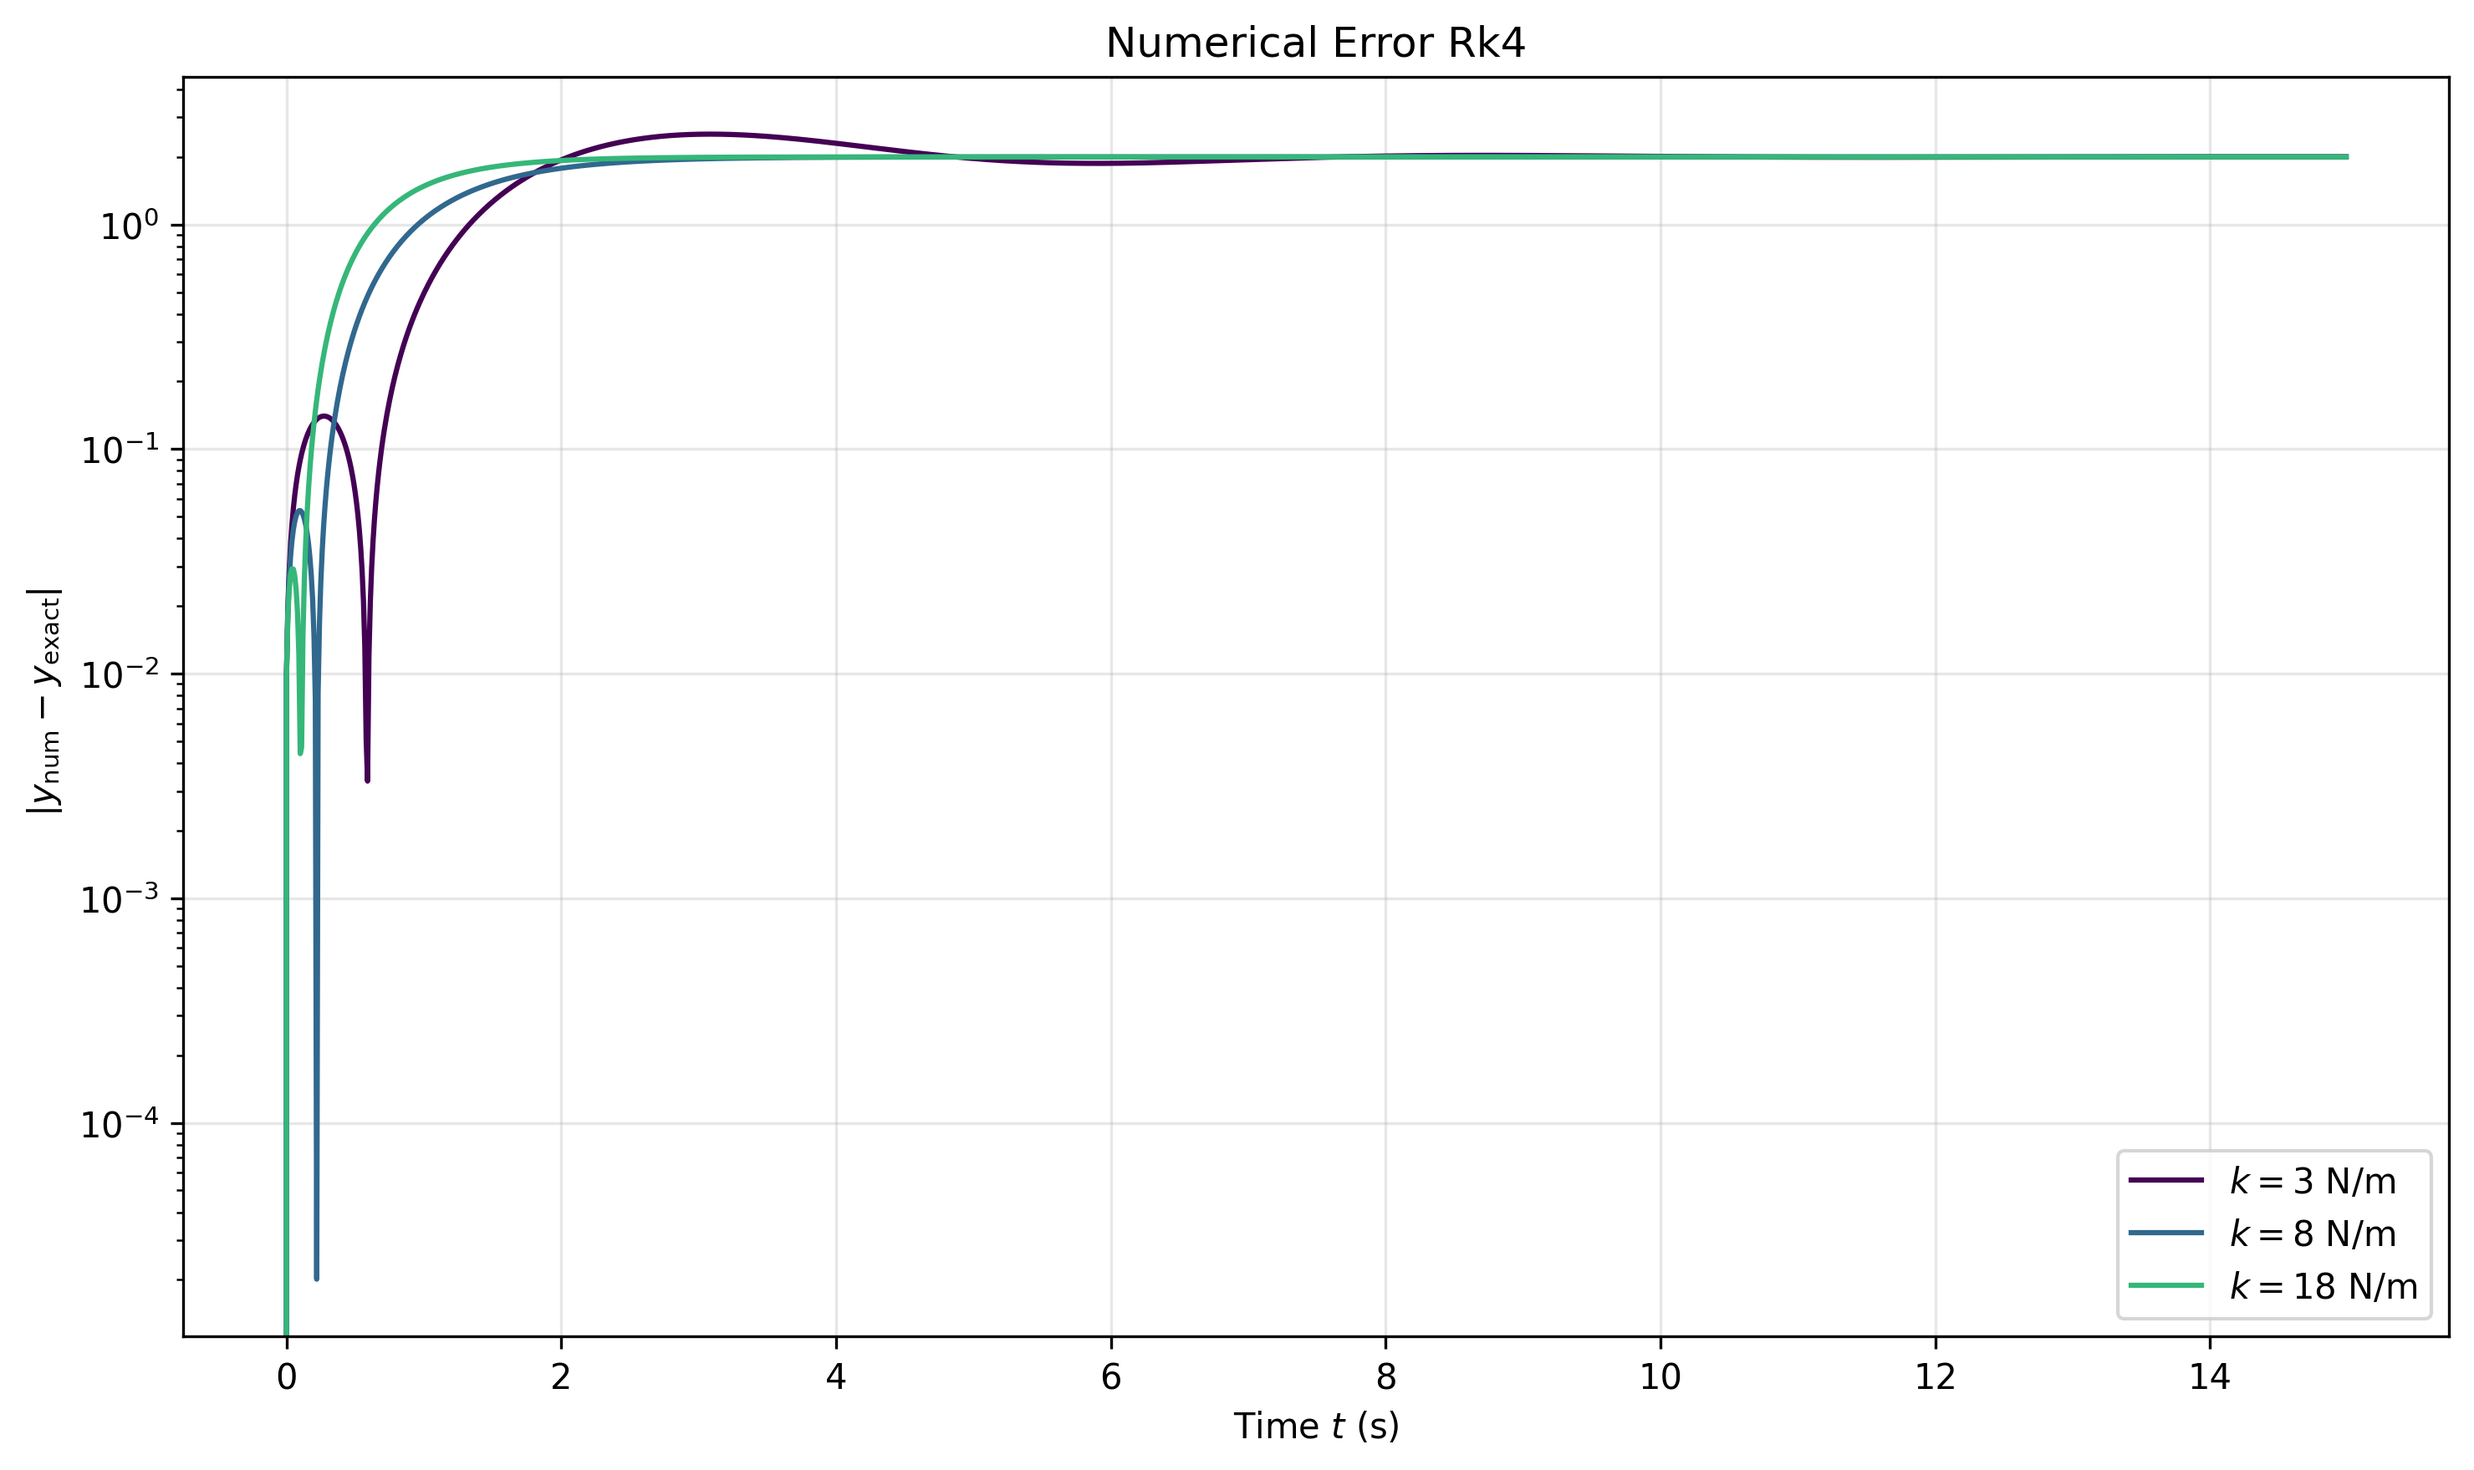
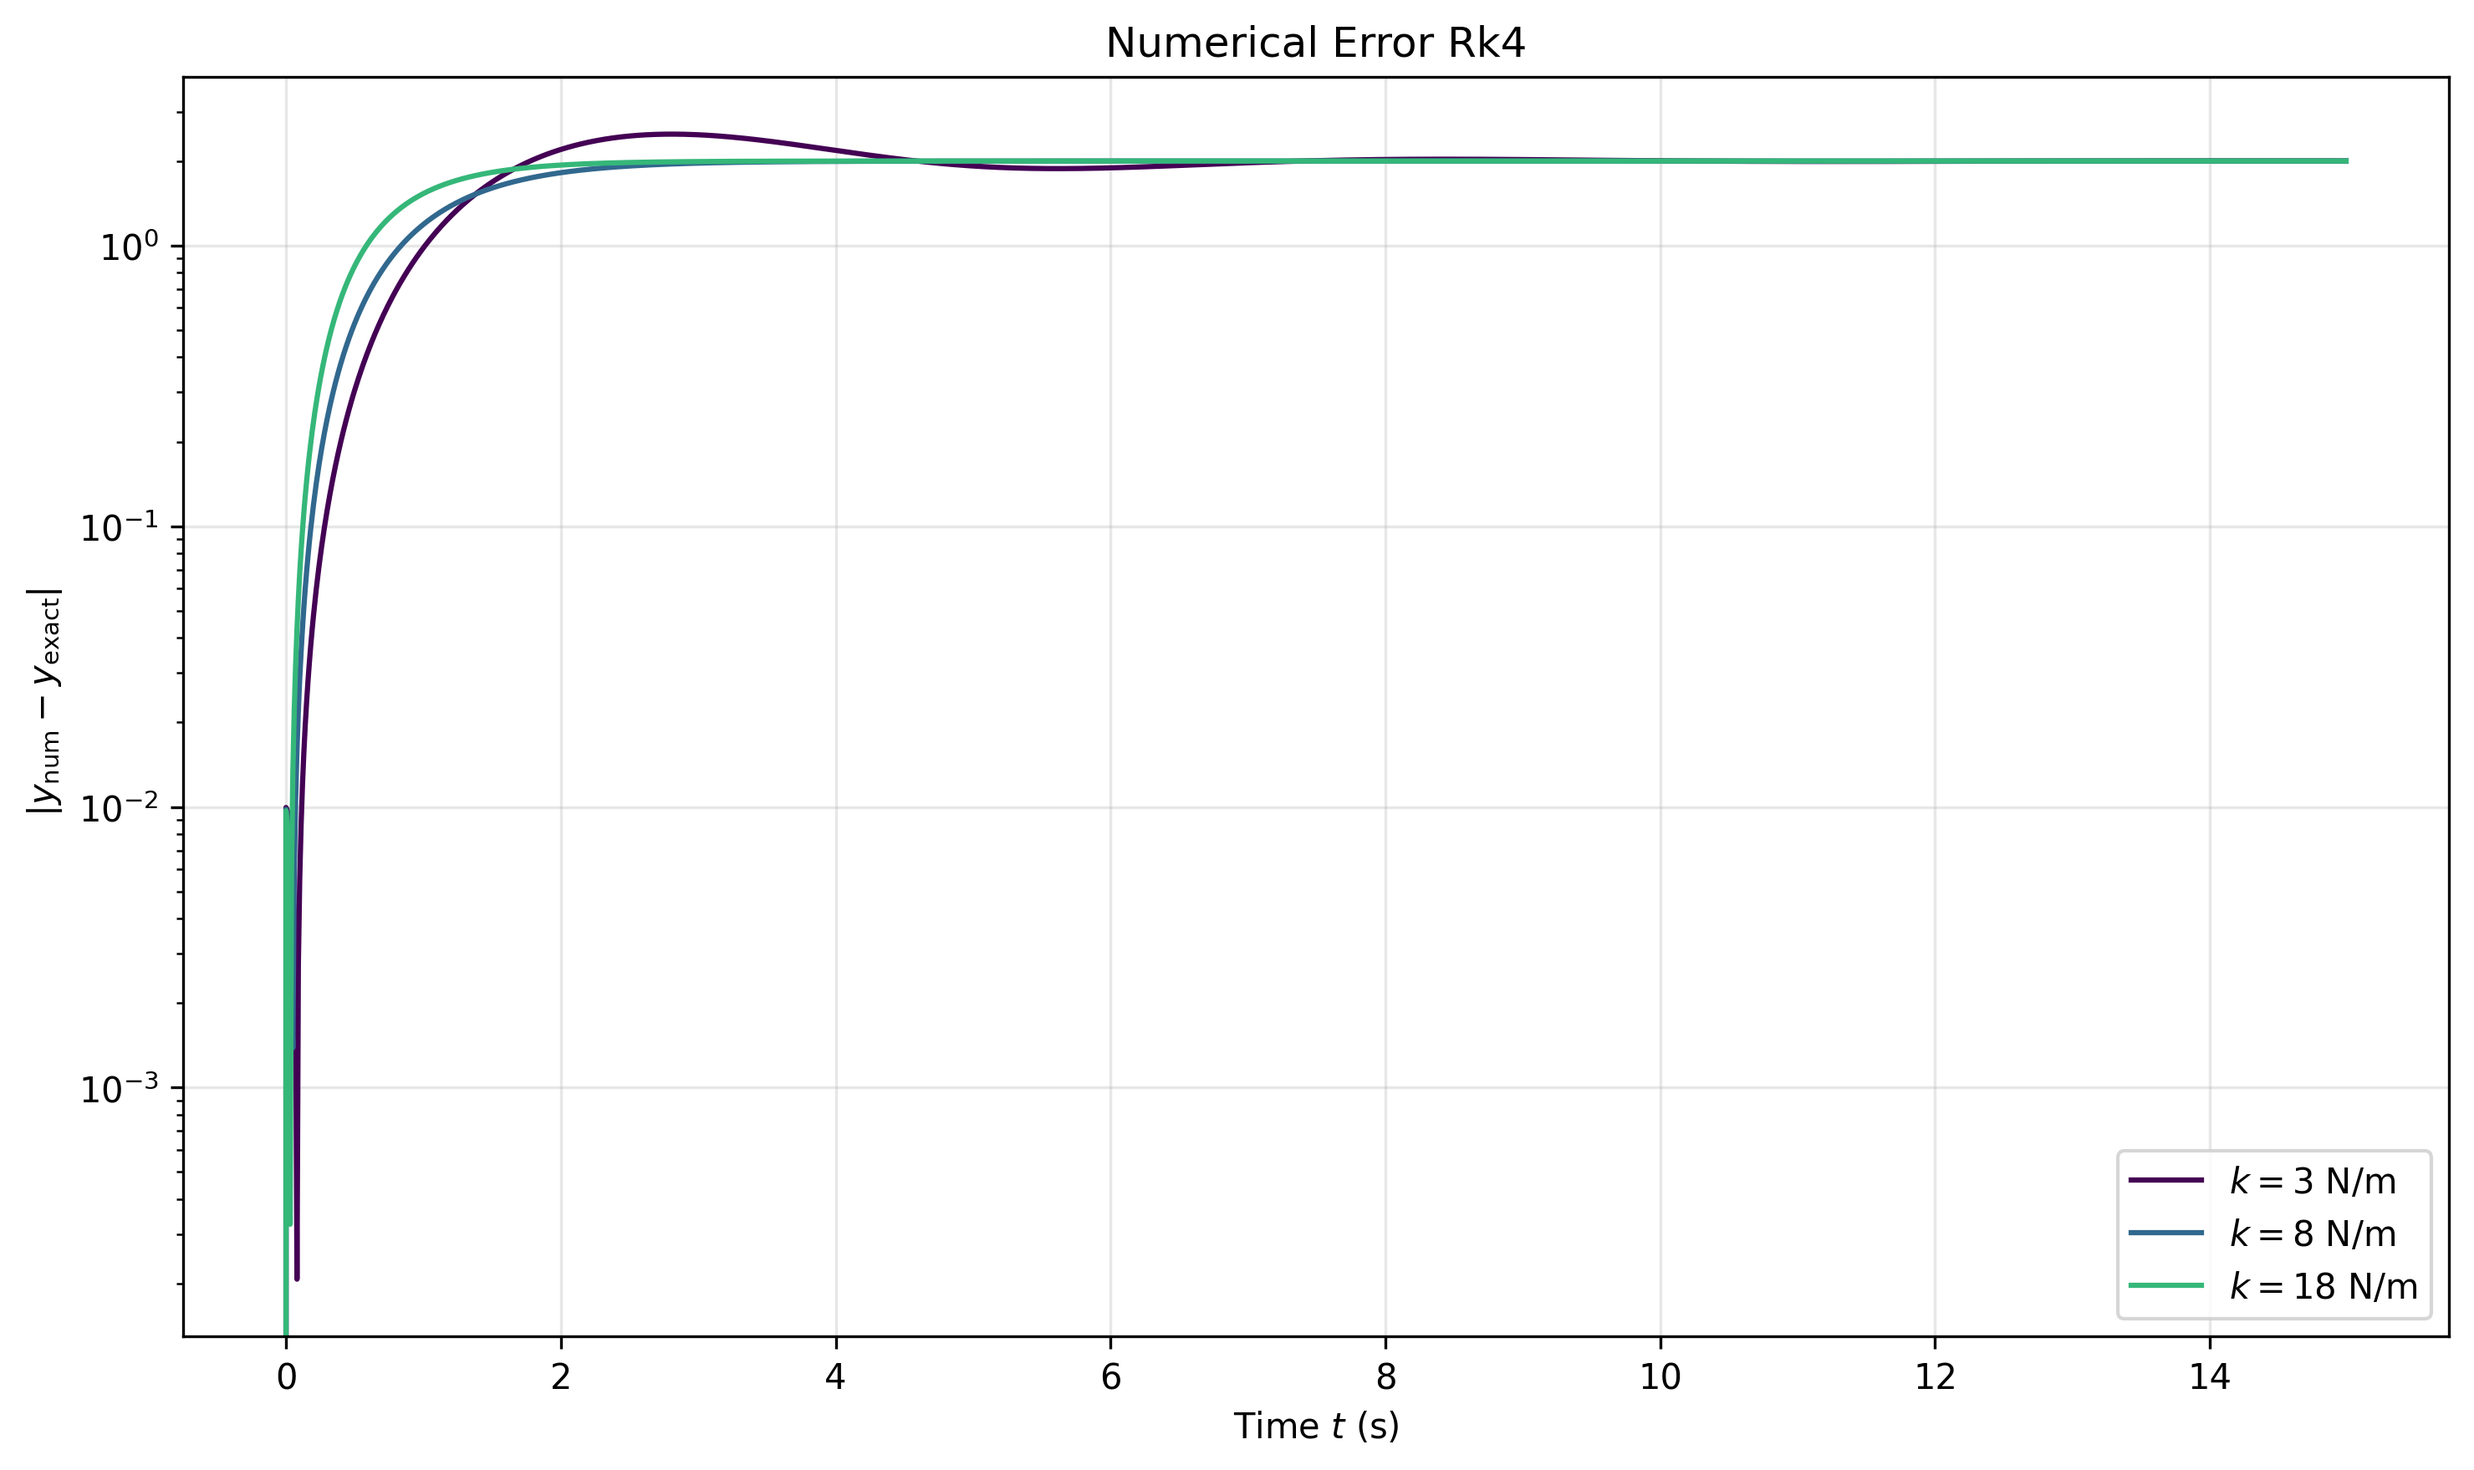
Comenzamos errores del pendulo

diff --git a/oscillatory_motion/Damping_vibration/spring_plots.py b/oscillatory_motion/Damping_vibration/spring_plots.py
@@ -1,8 +1,6 @@
-
 import numpy as np
 from Damping_vibration import Spring
 import matplotlib.pyplot as plt
-from matplotlib.cm import get_cmap
 
 def draw(t, t_max, spr):
     """
@@ -18,53 +16,60 @@ def draw(t, t_max, spr):
                total energy (Et), time points (times), positions (y_axes), and velocities (vy_axes).
     """
 
-    y0 = spr.y
-    v0 =spr.v
+    y = spr.y
+    v =spr.v
+    dt = spr.dt
 
     Ep = []
     Ek = []
     Wp = []
-    times = [0]
-    y_axes = [y0]
-    vy_axes= [v0]
+    times = [t]
+    y_axes = [y]
+    vy_axes= [v]
 
-    Ek0, Ep0, Wp0, _ = spr.energy(y0, v0, t)
+    Ek0, Ep0, Wp0, _ = spr.energy(y, v, t)
     Ep.append(Ep0)
     Ek.append(Ek0)
     Wp.append(Wp0)
 
-    time_points = np.arange(t, t_max, spr.dt)
+    relaxation_time = None
+    found = False
+
+    time_points = np.arange(t, t_max, dt)
 
     for t in time_points:
-        y_new, vy_new= spr.rk4(spr.dt)
 
-        
-        # Store the results for searching for crossings later
-        y_axes.append(y_new)
+        y, vy= spr.rk4(dt)
+
+        # Store the results
+
+        y_axes.append(y)
         times.append(t)
-        vy_axes.append(vy_new)
+        vy_axes.append(vy)
+
+        if (not found) and abs(y) <= abs(y_axes[0]) * np.exp(-1):
+            relaxation_time = t
+            found = True
 
         #Energies
-        Ek0, Ep0, Wp0, _ = spr.energy(y_new, vy_new, spr.dt)
+        Ek0, Ep0, Wp0, _ = spr.energy(y, vy, spr.dt)
         Ep.append(Ep0)
         Ek.append(Ek0)
         Wp.append(Wp0 + Wp[-1])
 
-        spr.y = y_new
-        spr.v = vy_new
-
-        t += spr.dt
+        spr.y = y
+        spr.v = vy
 
     Et = np.array(Ep) + np.array(Ek) + np.array(Wp)
 
-    return Ep, Ek, Wp, Et, times, y_axes, vy_axes
+    return Ep, Ek, Wp, Et, times, y_axes, vy_axes, relaxation_time
 
-
+k_under = np.linspace(0.5, 2.9, 10)
 k = [3, 8, 18]
 m = 2
 gamma = [2, 8, 13]
-y = -2
-vy = 1
+y0 = -2
+vy0 = 1
 # [1, 2, 3] -----> omega
 # [0.5, 2, >3] --------> beta
 # beta < omega
@@ -84,9 +89,9 @@ results = {
 for i, values in enumerate(k):
     t_max = 15
     t = 0
-    spr = Spring(y, vy, m, values, gamma[i], dt = 0.01, t_max =15)
+    spr = Spring(y0, vy0, m, values, gamma[i], dt = 0.01, t_max =15)
 
-    Ep, Ek, Wp, Et, times, y_list, vy_list = draw(t, t_max, spr)
+    Ep, Ek, Wp, Et, times, y_list, vy_list, _ = draw(t, t_max, spr)
 
     results['y'][values] = y_list
     results['vy'][values] = vy_list
@@ -194,13 +199,14 @@ def analytic_solution(t, y0, v0, beta, omega0):
 plt.figure(figsize=(10, 6))
 
 for i, values in enumerate(k):
+
     times = np.array(results['times'][values])
     y_num = np.array(results['y'][values])
 
     omega0 = np.sqrt(values/m)
     beta = gamma[i] / (2*m)
 
-    y_exact = analytic_solution(times, spr.y0, spr.v, beta, omega0)
+    y_exact = analytic_solution(times, y0, vy0, beta, omega0)
     error = np.abs(y_num - y_exact)
 
     plt.plot(times, error, color=colors[i],
